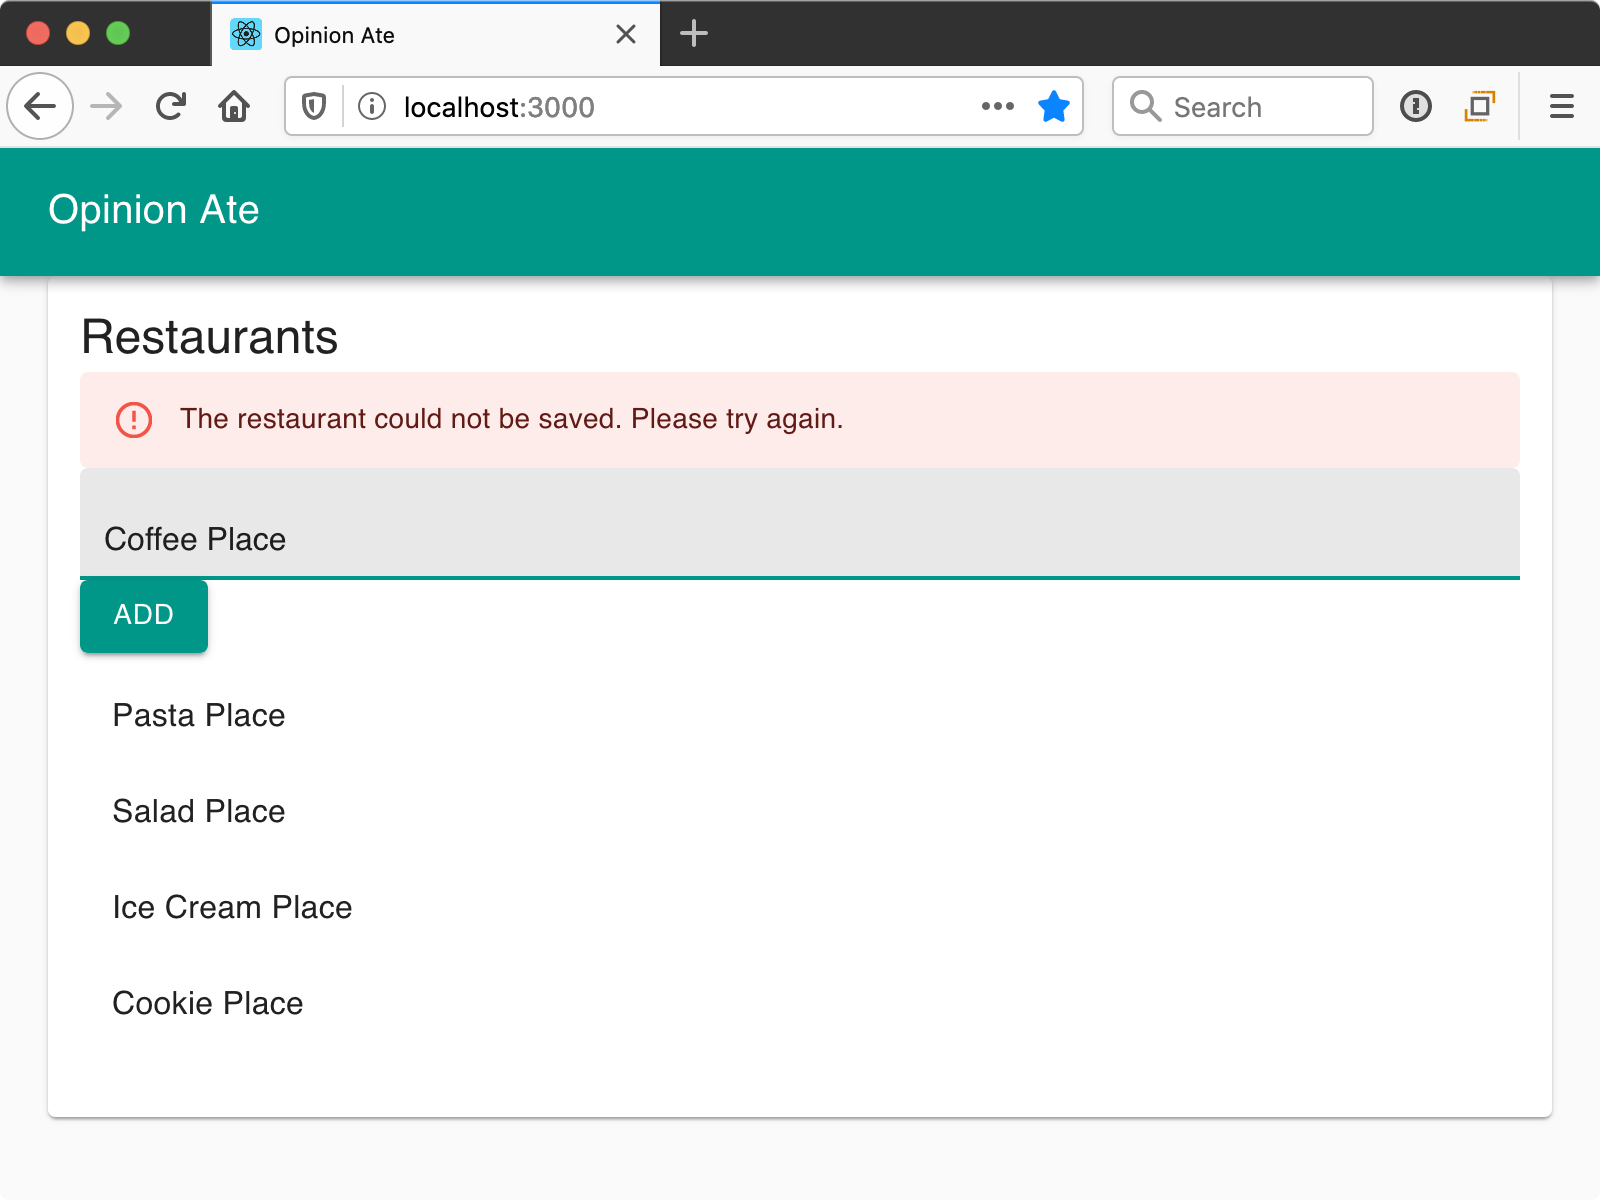
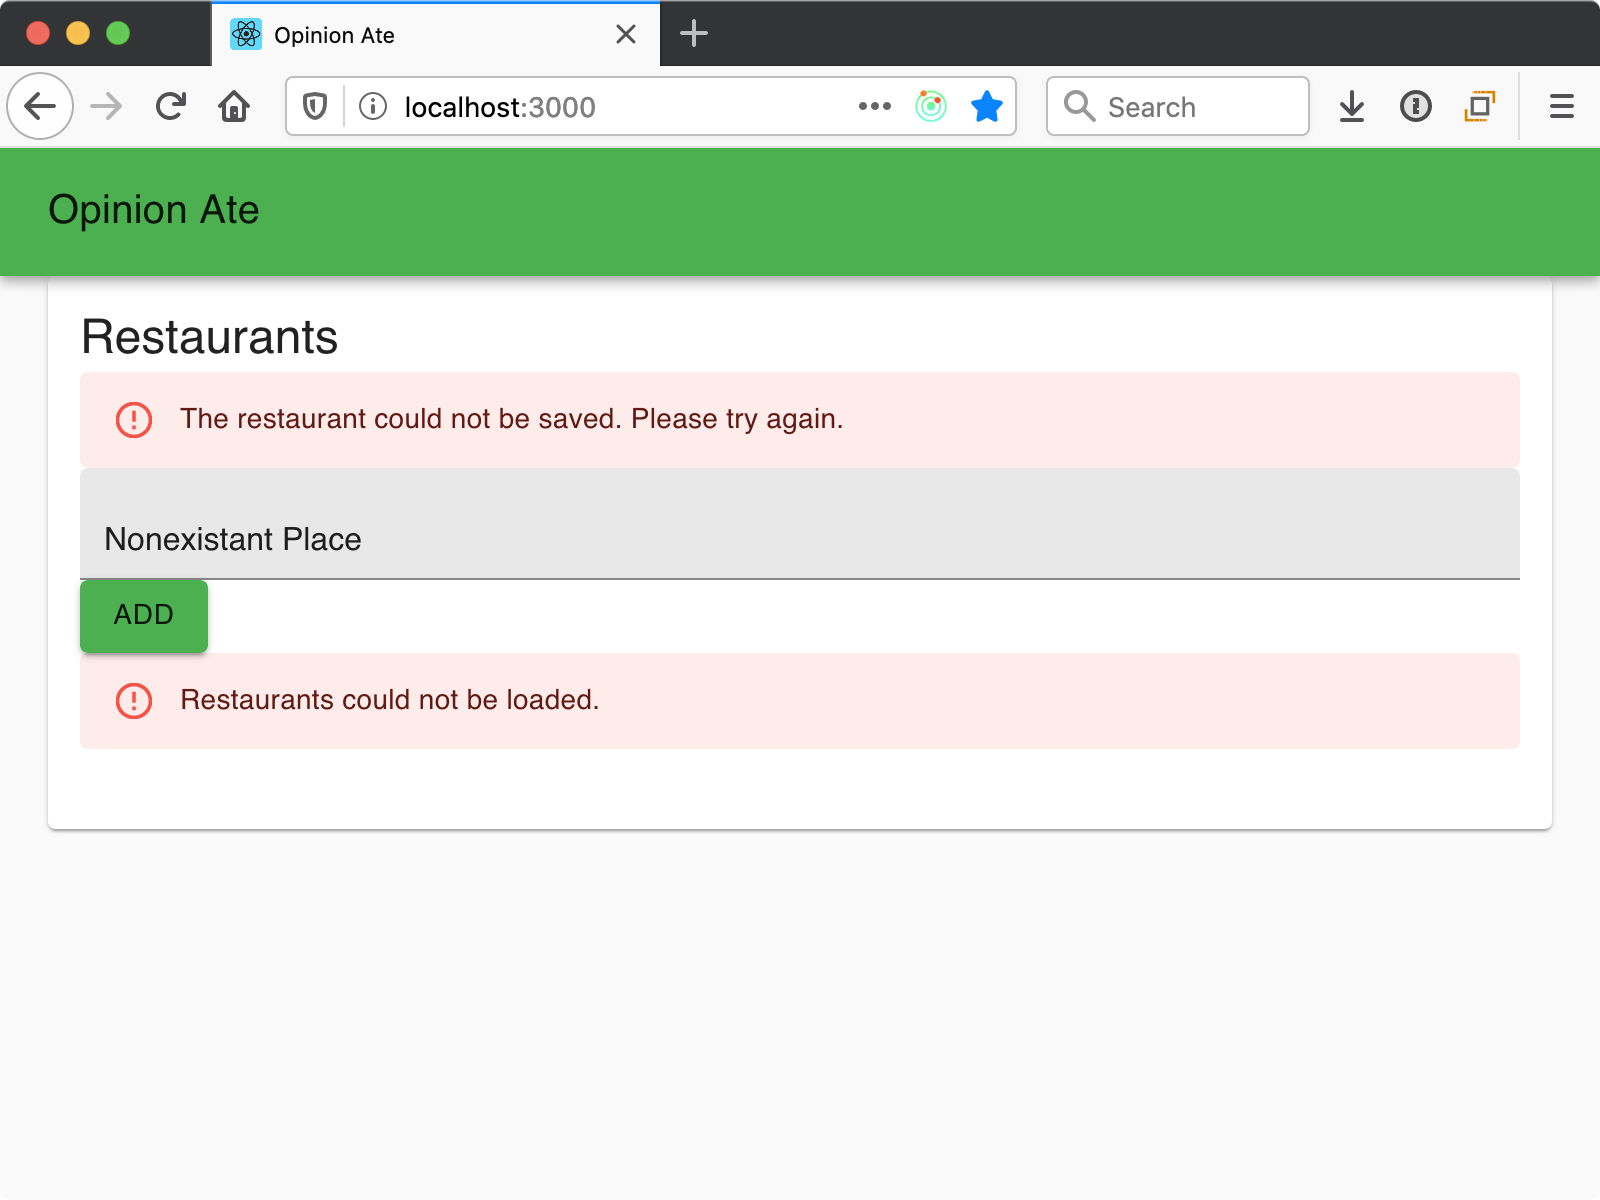
Update steps and diagram for save server error

diff --git a/docs/react/6-writing-data.md b/docs/react/6-writing-data.md
@@ -1394,9 +1394,11 @@ describe('when save fails', () => {
 
 The test passes right away. Because our store returned the promise chain returned from the API, the rejection is passed along to the caller of `store.dispatch()`. But this is part of the contract of the action that the component is relying on, so it's good to document it in a test.
 
-Now let's run our app in the browser and see it handle a server error. Make sure your API server is running, then run the frontend and load it up. Next, stop your API server. Then enter a restaurant name and click "Add". You should see a red server error message:
+Now let's run our app in the browser and see it handle a server error. As you did in the last chapter, open `src/api.js` and put an incorrect API key in the `baseURL` value. Load up the frontend and you will see the error message for loading the restaurants--but we want to try out what happens when there is an error *saving* the restaurants. Enter a restaurant name and click "Add". You should see another red server error message, this time for saving:
 
 ![Server error message](./images/5-4-server-error.png)
+
+Restore the correct API key value in `src/api.js`, reload the frontend, and make sure the app is working again.
 
 That was a lot of edge cases, but we've added a lot of robustness to our form!
 

diff --git a/docs/vue/6-writing-data.md b/docs/vue/6-writing-data.md
@@ -1345,9 +1345,11 @@ Save and this test fails: the promise resolves instead of rejecting. Why is this
 
 The tests pass.
 
-Now let's run our app in the browser and see it handle a server error. Make sure your API server is running, then run the frontend and load it up. Next, stop your API server. Then enter a restaurant name and click "Add". You should see a red server error message:
+Now let's run our app in the browser and see it handle a server error. As you did in the last chapter, open `src/api.js` and put an incorrect API key in the `baseURL` value. Load up the frontend and you will see the error message for loading the restaurants--but we want to try out what happens when there is an error *saving* the restaurants. Enter a restaurant name and click "Add". You should see another red server error message, this time for saving:
 
 ![Server error message](./images/5-4-server-error.png)
+
+Restore the correct API key value in `src/api.js`, reload the frontend, and make sure the app is working again.
 
 That was a lot of edge cases, but we've added a lot of robustness to our form!
 
